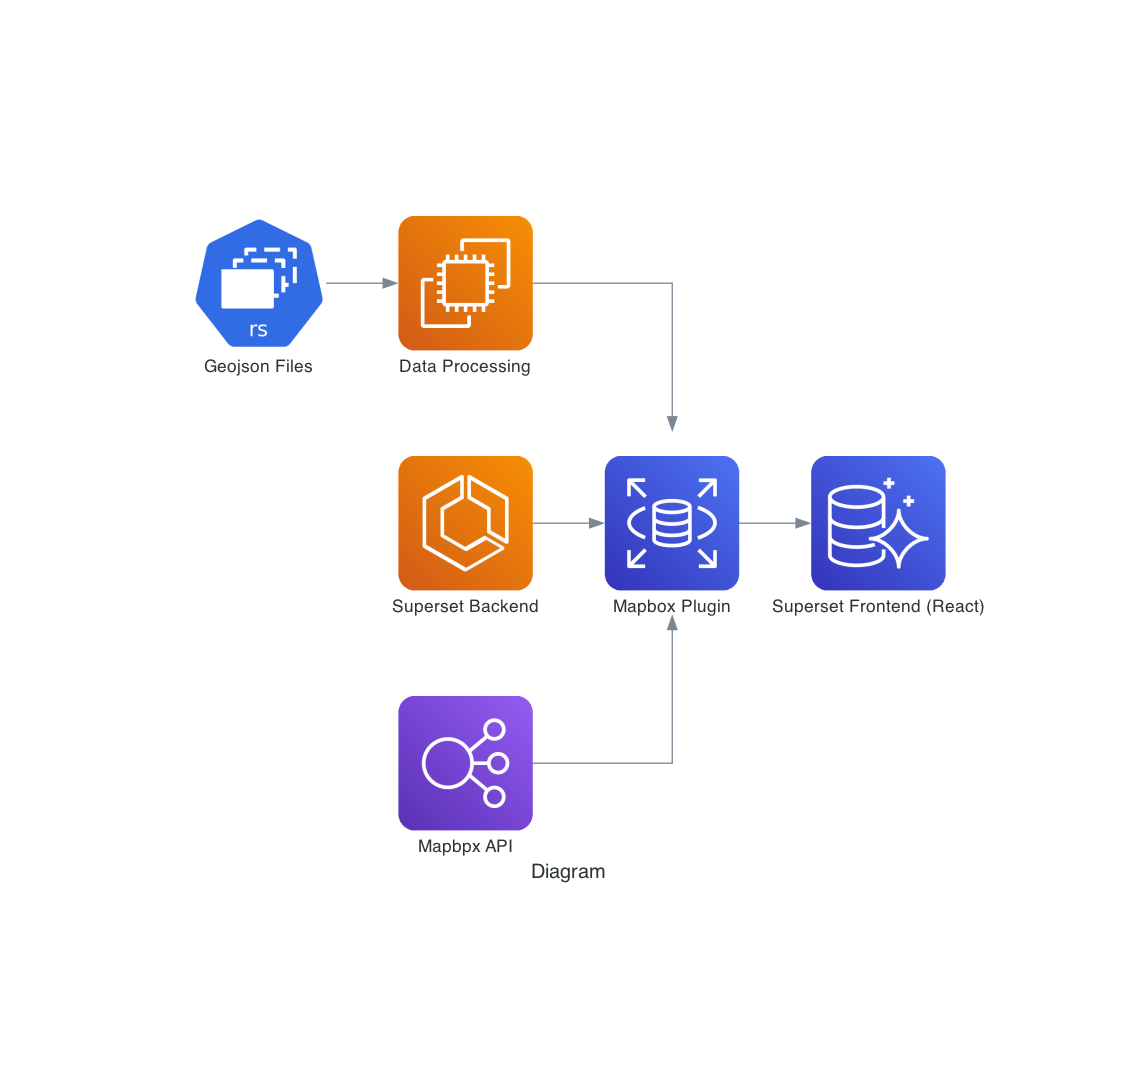
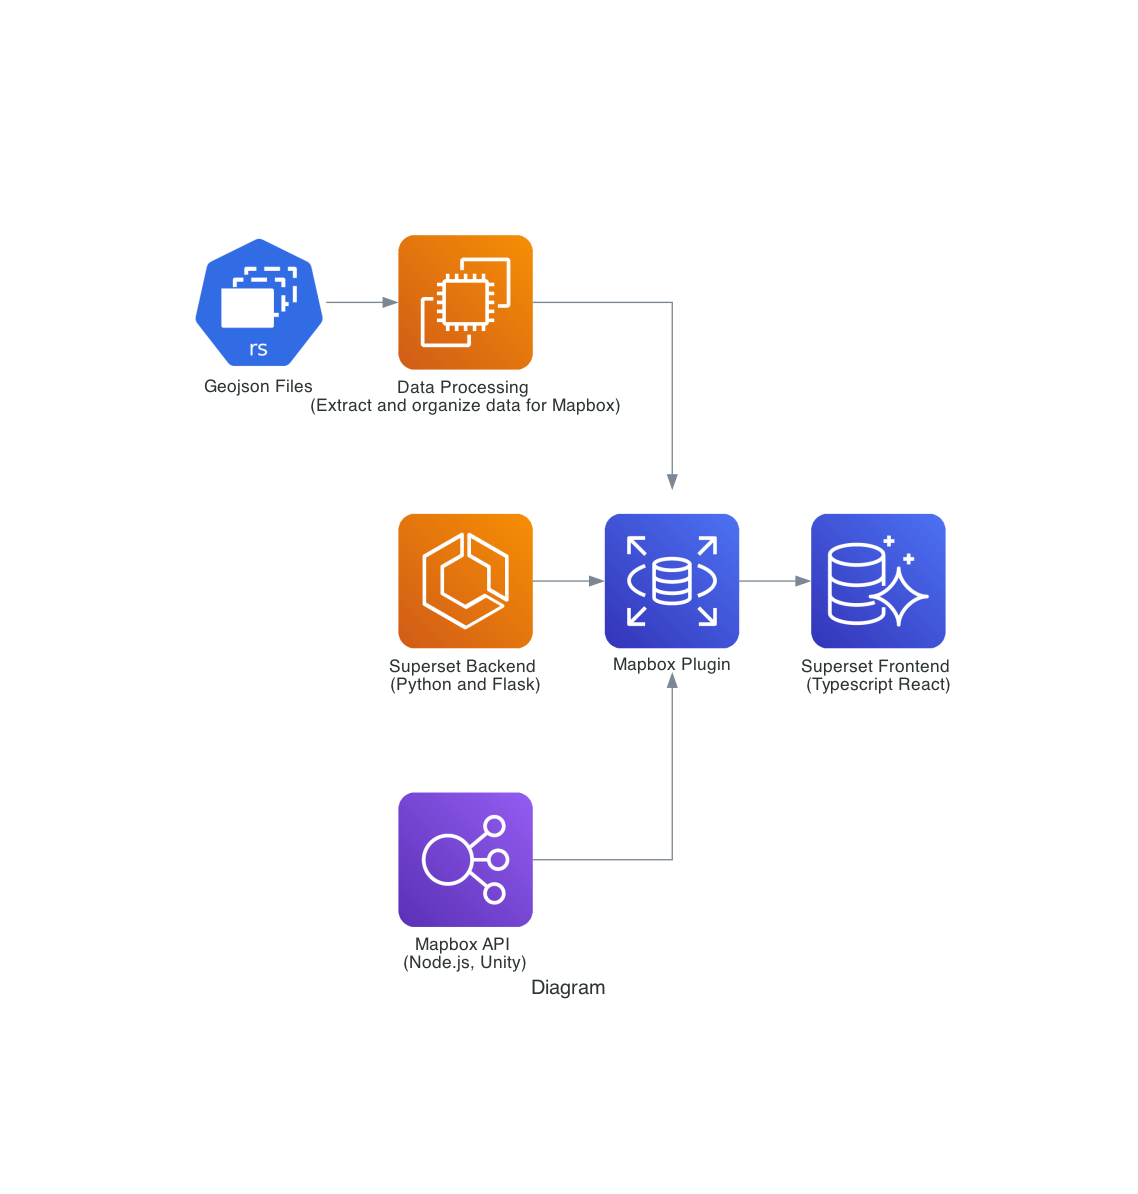
add more info

diff --git a/deliverables/D4/tech-diagram.py b/deliverables/D4/tech-diagram.py
@@ -6,6 +6,6 @@ from diagrams.k8s.compute import ReplicaSet
 
 
 with Diagram("Diagram", show=False):
-    [ReplicaSet("Geojson Files") >> EC2("Data Processing"),
-        ECS("Superset Backend"),
-        ELB("Mapbpx API")] >> RDS("Mapbox Plugin") >> Aurora("Superset Frontend (React)")
+    [ReplicaSet("Geojson Files") >> EC2("Data Processing \n(Extract and organize data for Mapbox)"),
+        ECS("Superset Backend \n(Python and Flask)"),
+        ELB("Mapbox API \n(Node.js, Unity)")] >> RDS("Mapbox Plugin") >> Aurora("Superset Frontend \n(Typescript React)")
